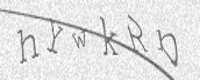
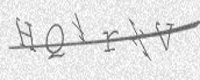
added view to match Captcha

diff --git a/captcha_service/captcha/views.py b/captcha_service/captcha/views.py
@@ -1,6 +1,7 @@
 from claptcha import Claptcha
 from django.shortcuts import render
 from django.http import HttpResponse
+import json
 from PIL import Image
 import random
 from rest_framework.response import Response
@@ -26,6 +27,7 @@ def generateRandomCaptcha(n=6):
 
 
 def generateCaptchaImage():
+	global CAPTCHA_TEXT
 	c = Claptcha(generateRandomCaptcha(), 'captcha/FreeMono.ttf',
 			resample=Image.BICUBIC, noise=0.3)
 
@@ -38,11 +40,19 @@ def generateCaptchaImage():
 @api_view()
 def returnCaptcha(request):
 	text = generateCaptchaImage()
-	print(text)	
+	#print(text)	
 	with open('captcha/static/captcha/captcha.png', 'rb') as f:
 		return HttpResponse(f.read(), content_type='image/png')
 
 		
-@api_view(['POST'])
-def matchCaptchaText(request):
-	print(request.data)
+@api_view()
+def matchCaptchaText(request, text):
+	global CAPTCHA_TEXT
+	#print(text, CAPTCHA_TEXT)
+	if text==CAPTCHA_TEXT:
+		CAPTCHA_TEXT = ''
+		status = {'status':True}
+		return HttpResponse(json.dumps(status))
+	else:
+		status = {'status':False}
+		return HttpResponse(json.dumps(status))

diff --git a/captcha_service/captcha/urls.py b/captcha_service/captcha/urls.py
@@ -3,5 +3,6 @@ from django.urls import path
 from . import views
 
 urlpatterns = [
-	path('', views.returnCaptcha, name='captcha')
+	path('', views.returnCaptcha, name='captcha'),
+	path('captcha/<str:text>', views.matchCaptchaText, name='matchCaptcha')
 ]
